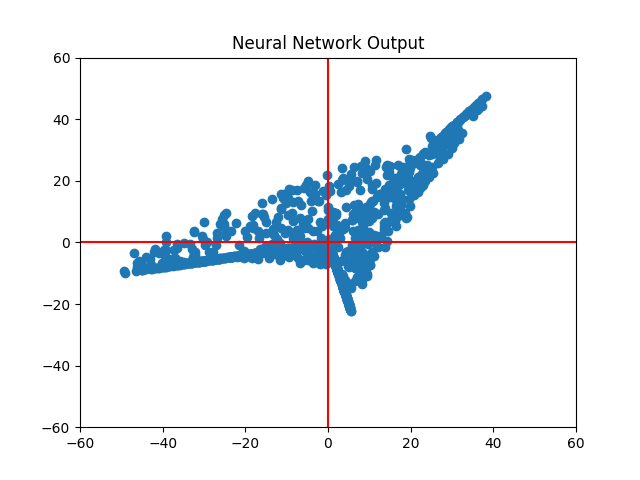
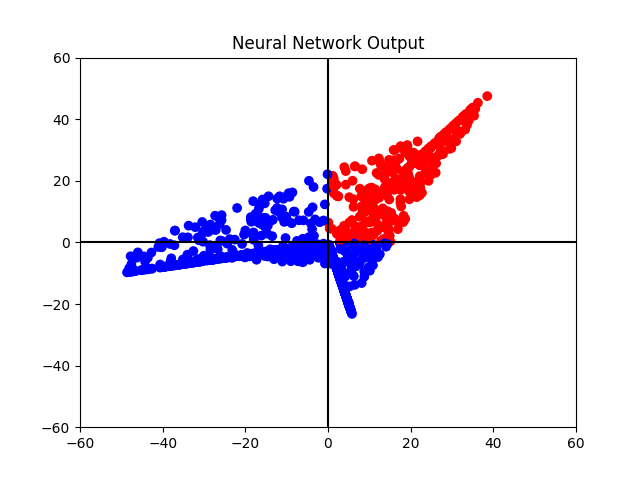
pretty picture

Changed region(s): [[0.125, 0.1875, 0.9062, 0.6875]]

diff --git a/ml_linear_layers/project.py b/ml_linear_layers/project.py
@@ -232,8 +232,11 @@ results = np.array(list(map(second_linear_layer, map(ramp, map(first_linear_laye
 plt.clf()
 plt.xlim([-60, 60])
 plt.ylim([-60, 60])
-plt.axvline(0, 0, 1, color = 'r')
-plt.axhline(0, 0, 1, color = 'r')
-plt.scatter(results[:,0], results[:,1])
+plt.axvline(0, 0, 1, color = 'k')
+plt.axhline(0, 0, 1, color = 'k')
+x_vals = results[:,0]
+y_vals = results[:,1]
+col = np.where(x_vals < 0, 'b', np.where(y_vals < 0, 'b', 'r'))
+plt.scatter(x_vals, y_vals, c=col)
 plt.title("Neural Network Output")
 plt.savefig('images/scatter_plot.png')
